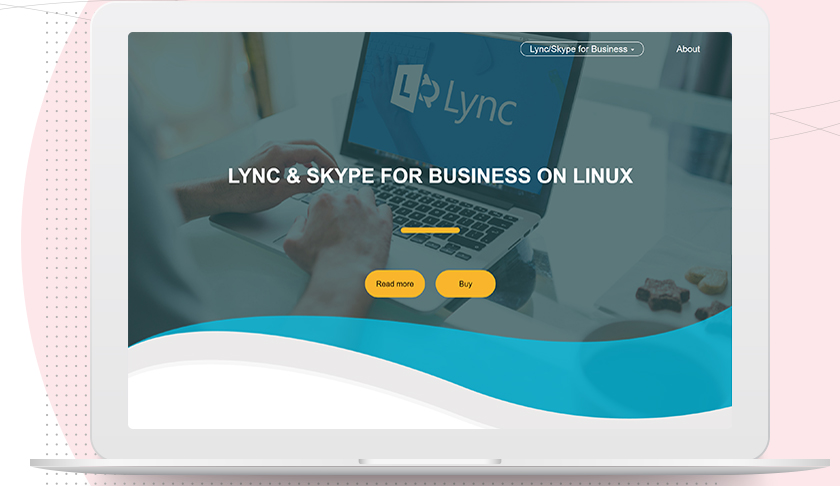
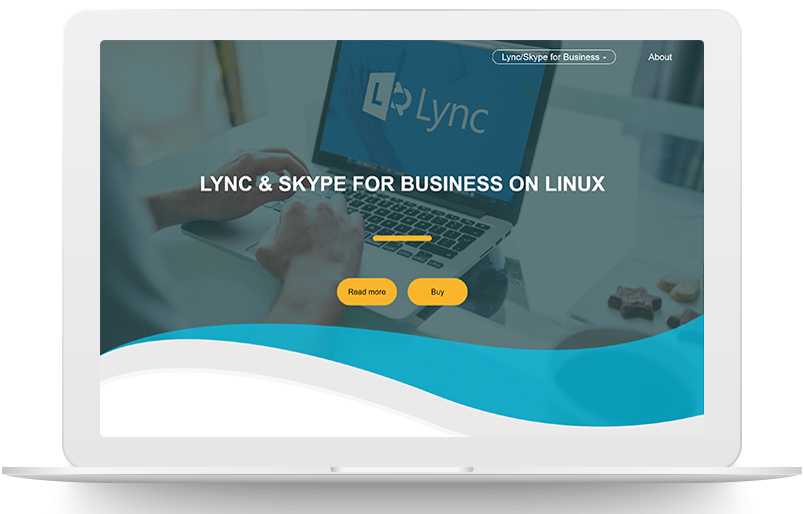
style: mobile support

diff --git a/src/components/temps/home/ClearKeep.vue b/src/components/temps/home/ClearKeep.vue
@@ -1,8 +1,10 @@
 <template>
     <v-container fluid class="content-grid">
         <v-layout wrap pa-0>
-            <v-flex xs6></v-flex>
-            <v-flex xs6 pa-0>
+            <v-flex xs12 sm6 pa-0>
+                <v-img v-if="$vuetify.breakpoint.xsOnly" src="@/assets/images/clear-keep-mobile.png"></v-img>
+            </v-flex>
+            <v-flex xs12 sm6 pa-md-0 pa-4>
                 <div class="fix-width">
                     <div class="logo">
                         <img src="@/assets/images/clear-keep-icon.png" alt />
@@ -31,11 +33,16 @@ export default {
 </script>
 <style>
 .section-3 {
-    background: url(../../../assets/images/clear-keep.png) no-repeat bottom right;
-    background-size: cover;
     height: 820px;
     display: flex;
     align-items: top;
+}
+
+@media only screen and (min-width: 600px) {
+    .section-3 {
+        background: url(../../../assets/images/clear-keep.png) no-repeat bottom right;
+        background-size: cover;
+    }
 }
 
 @media only screen and (min-width: 1920px) {
@@ -48,10 +55,18 @@ export default {
     color: #fff;
     text-transform: none;
     font-size: 16px;
-    width: 176px;
-    height: 60px;
+    width: 160px;
+    height: 50px;
     margin-top: 20px;
 }
+
+@media only screen and (min-width: 600px) {
+    .section-3 .content-grid .btn-read-more.theme--light.v-btn {
+        width: 176px;
+        height: 60px;
+    }
+}
+
 .section-3 .content-grid .logo {
     display: flex;
     color: #f9556d;
@@ -68,16 +83,28 @@ export default {
     line-height: 14px;
 }
 .section-3 .content-grid .text-2 {
-    font-size: 40px;
+    color: #01348d;
+    font-size: 24px;
     font-weight: bold;
-    line-height: 42px;
 }
 .section-3 .content-grid .text-3 {
-    font-size: 40px;
+    color: #f9556d;
+    font-size: 24px;
     font-weight: bold;
-    line-height: 42px;
-    margin-bottom: 40px;
+    line-height: 38px;
+    margin-bottom: 0;
 }
+
+@media only screen and (min-width: 600px) {
+    .section-3 .content-grid .text-2,
+    .section-3 .content-grid .text-3 {
+        font-size: 40px;
+    }
+    .section-3 .content-grid .text-3 {
+        margin-bottom: 40px;
+    }
+}
+
 .content-grid .fix-width {
     position: relative;
 }

diff --git a/src/components/temps/home/LyncSkype.vue b/src/components/temps/home/LyncSkype.vue
@@ -1,7 +1,10 @@
 <template>
     <v-container fluid class="content-grid">
         <v-layout wrap pa-0>
-            <v-flex xs12 pa-0>
+            <v-flex xs12 v-if="$vuetify.breakpoint.xsOnly" px-3 mb-6>
+                <v-img src="@/assets/images/lync-skype-mobile.jpg" contain></v-img>
+            </v-flex>
+            <v-flex xs12 pa-md-0 pa-4>
                 <div class="fix-width">
                     <div class="logo">
                         <img src="@/assets/images/lync-skype-icon.png" alt />
@@ -25,18 +28,33 @@ export default {
 </script>
 <style>
 .section-2 {
-    background: url(../../../assets/images/lync-skype.png) no-repeat bottom right;
-    background-size: auto 100%;
-    height: 700px;
+    height: 550px;
 }
+
+@media only screen and (min-width: 600px) {
+    .section-2 {
+        background: url(../../../assets/images/lync-skype.png) no-repeat bottom right;
+        background-size: auto 100%;
+        height: 700px;
+    }
+}
+
 .section-2 .content-grid .btn-read-more.theme--light.v-btn {
     color: #fff;
     text-transform: none;
     font-size: 16px;
-    width: 176px;
-    height: 60px;
+    width: 160px;
+    height: 50px;
     margin-top: 20px;
 }
+
+@media only screen and (min-width: 600px) {
+    .section-2 .content-grid .btn-read-more.theme--light.v-btn {
+        width: 176px;
+        height: 60px;
+    }
+}
+
 .section-2 .content-grid .logo {
     display: flex;
     color: #f9556d;
@@ -60,16 +78,27 @@ export default {
 }
 .section-2 .content-grid .text-2 {
     color: #01348d;
-    font-size: 40px;
+    font-size: 24px;
     font-weight: bold;
 }
 .section-2 .content-grid .text-3 {
     color: #f9556d;
-    font-size: 40px;
+    font-size: 24px;
     font-weight: bold;
     line-height: 38px;
-    margin-bottom: 40px;
+    margin-bottom: 0;
 }
+
+@media only screen and (min-width: 600px) {
+    .section-2 .content-grid .text-2,
+    .section-2 .content-grid .text-3 {
+        font-size: 40px;
+    }
+    .section-2 .content-grid .text-3 {
+        margin-bottom: 40px;
+    }
+}
+
 .content-grid .fix-width {
     position: relative;
 }

diff --git a/src/components/temps/home/SliderShow.vue b/src/components/temps/home/SliderShow.vue
@@ -1,5 +1,10 @@
 <template>
     <v-container fluid>
+        <p class="title-1">WE MAKE THE TOOLS THAT GIVE YOU SUPER POWERS</p>
+        <p class="title-2">
+            Talk and share files without bad guys eavesdropping. Launch machine learning products without being a genius
+            data scientist and devOps expert.
+        </p>
         <v-layout wrap pa-0 class="carousel-container">
             <v-flex sm2 :class="`d-sm-flex justify-end align-center d-none`">
                 <div class="arrow" @click="leftSlide" @mouseover="leftActive = true" @mouseout="leftActive = false">
@@ -98,6 +103,30 @@ export default {
     cursor: pointer;
     img {
         max-height: 4rem;
+    }
+}
+
+.title-1 {
+    text-align: center;
+    font-weight: bold;
+    color: #01358d;
+    font-size: 1rem;
+}
+
+.title-2 {
+    text-align: center;
+    color: #f9556d;
+    width: 365px;
+    margin: auto;
+}
+
+@media only screen and (min-width: 600px) {
+    .title-1 {
+        font-size: 2rem;
+    }
+
+    .title-2 {
+        width: 700px;
     }
 }
 </style>
